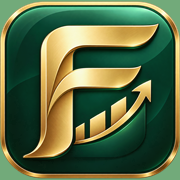
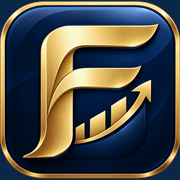
pwa: la barra del sistema y los iconos pasan a azul
BARRA DEL DISPOSITIVO (lo que se ve verde en el movil)
- src/lib/theme.ts: el `theme-color` deja de cambiar con el tema. Antes se ponia
  #f4f6fb (casi blanco) en el tema claro y #0a0f1c (casi negro) en el oscuro, asi
  que la barra de estado y la de navegacion de Android nunca eran las de FINANZA.
  Ahora es SIEMPRE #0B2748, el mismo azul del manifiesto y de index.html.
- Estos tres sitios tienen que coincidir siempre: theme_color/background_color de
  vite.config.ts, el <meta name="theme-color"> de index.html y THEME_COLORS.

ICONOS
- scripts/generate-icons.ps1 convierte el VERDE del logotipo al azul de la
  identidad girando solo el tono (el dorado del simbolo queda intacto, y las
  sombras verdes oscuras tambien se convierten). El fondo de los iconos
  recortables pasa a ser #0B2748 en lugar del promedio del logotipo.
- Regenerados pwa-192, pwa-512, pwa-maskable-512, apple-touch-icon, favicon-32,
  favicon-48, favicon.svg y logo.png (el de la pantalla de arranque).

El verde solo podia venir de aqui: el manifiesto y el HTML ya servian azul desde
el despliegue anterior. Con esto el icono del telefono, la pantalla de arranque y
el selector de aplicaciones dejan de verse verdes.

PRUEBA NUEVA
- theme.test.ts: la barra del dispositivo se pinta en azul en los dos temas.

diff --git a/apps/web/src/lib/theme.test.ts b/apps/web/src/lib/theme.test.ts
@@ -41,6 +41,26 @@ describe('tema y apariencia', () => {
     expect(document.documentElement.style.colorScheme).toBe('light');
   });
 
+  /**
+   * La barra del dispositivo (estado arriba y navegación abajo) se pinta con el
+   * `theme-color`. Tiene que ser el azul de la identidad SIEMPRE: si cambia con
+   * el tema, el móvil enseña una barra blanca o casi negra que no es de FINANZA.
+   */
+  it('pinta la barra del dispositivo con el azul de la identidad en los dos temas', () => {
+    const meta = document.createElement('meta');
+    meta.setAttribute('name', 'theme-color');
+    meta.setAttribute('content', '#000000');
+    document.head.appendChild(meta);
+
+    applyTheme('dark');
+    expect(meta.getAttribute('content')).toBe('#0B2748');
+
+    applyTheme('light');
+    expect(meta.getAttribute('content')).toBe('#0B2748');
+
+    meta.remove();
+  });
+
   it('distingue «nunca elegí» de «elegí seguir al sistema»', () => {
     expect(readStoredTheme()).toBeNull();
 

diff --git a/apps/web/src/lib/theme.ts b/apps/web/src/lib/theme.ts
@@ -19,10 +19,21 @@ export type ResolvedTheme = 'light' | 'dark';
 
 const STORAGE_KEY = 'finanza.theme';
 
-/** Color de la barra del navegador y del sistema en cada tema. */
+/**
+ * Color de la barra del navegador y del sistema (la barra de estado arriba y la
+ * de navegación abajo en Android) y de la pantalla de arranque.
+ *
+ * Es el MISMO azul de la identidad en los dos temas, a propósito: antes cambiaba
+ * a blanco en el tema claro y a casi negro en el oscuro, y el resultado era una
+ * barra del dispositivo que no parecía de FINANZA. Este valor debe coincidir con
+ * `theme_color` y `background_color` del manifiesto (vite.config.ts) y con el
+ * `<meta name="theme-color">` de index.html.
+ */
+const COLOR_BARRA_SISTEMA = '#0B2748';
+
 const THEME_COLORS: Record<ResolvedTheme, string> = {
-  dark: '#0a0f1c',
-  light: '#f4f6fb',
+  dark: COLOR_BARRA_SISTEMA,
+  light: COLOR_BARRA_SISTEMA,
 };
 
 export function readStoredTheme(): ThemePreference | null {
